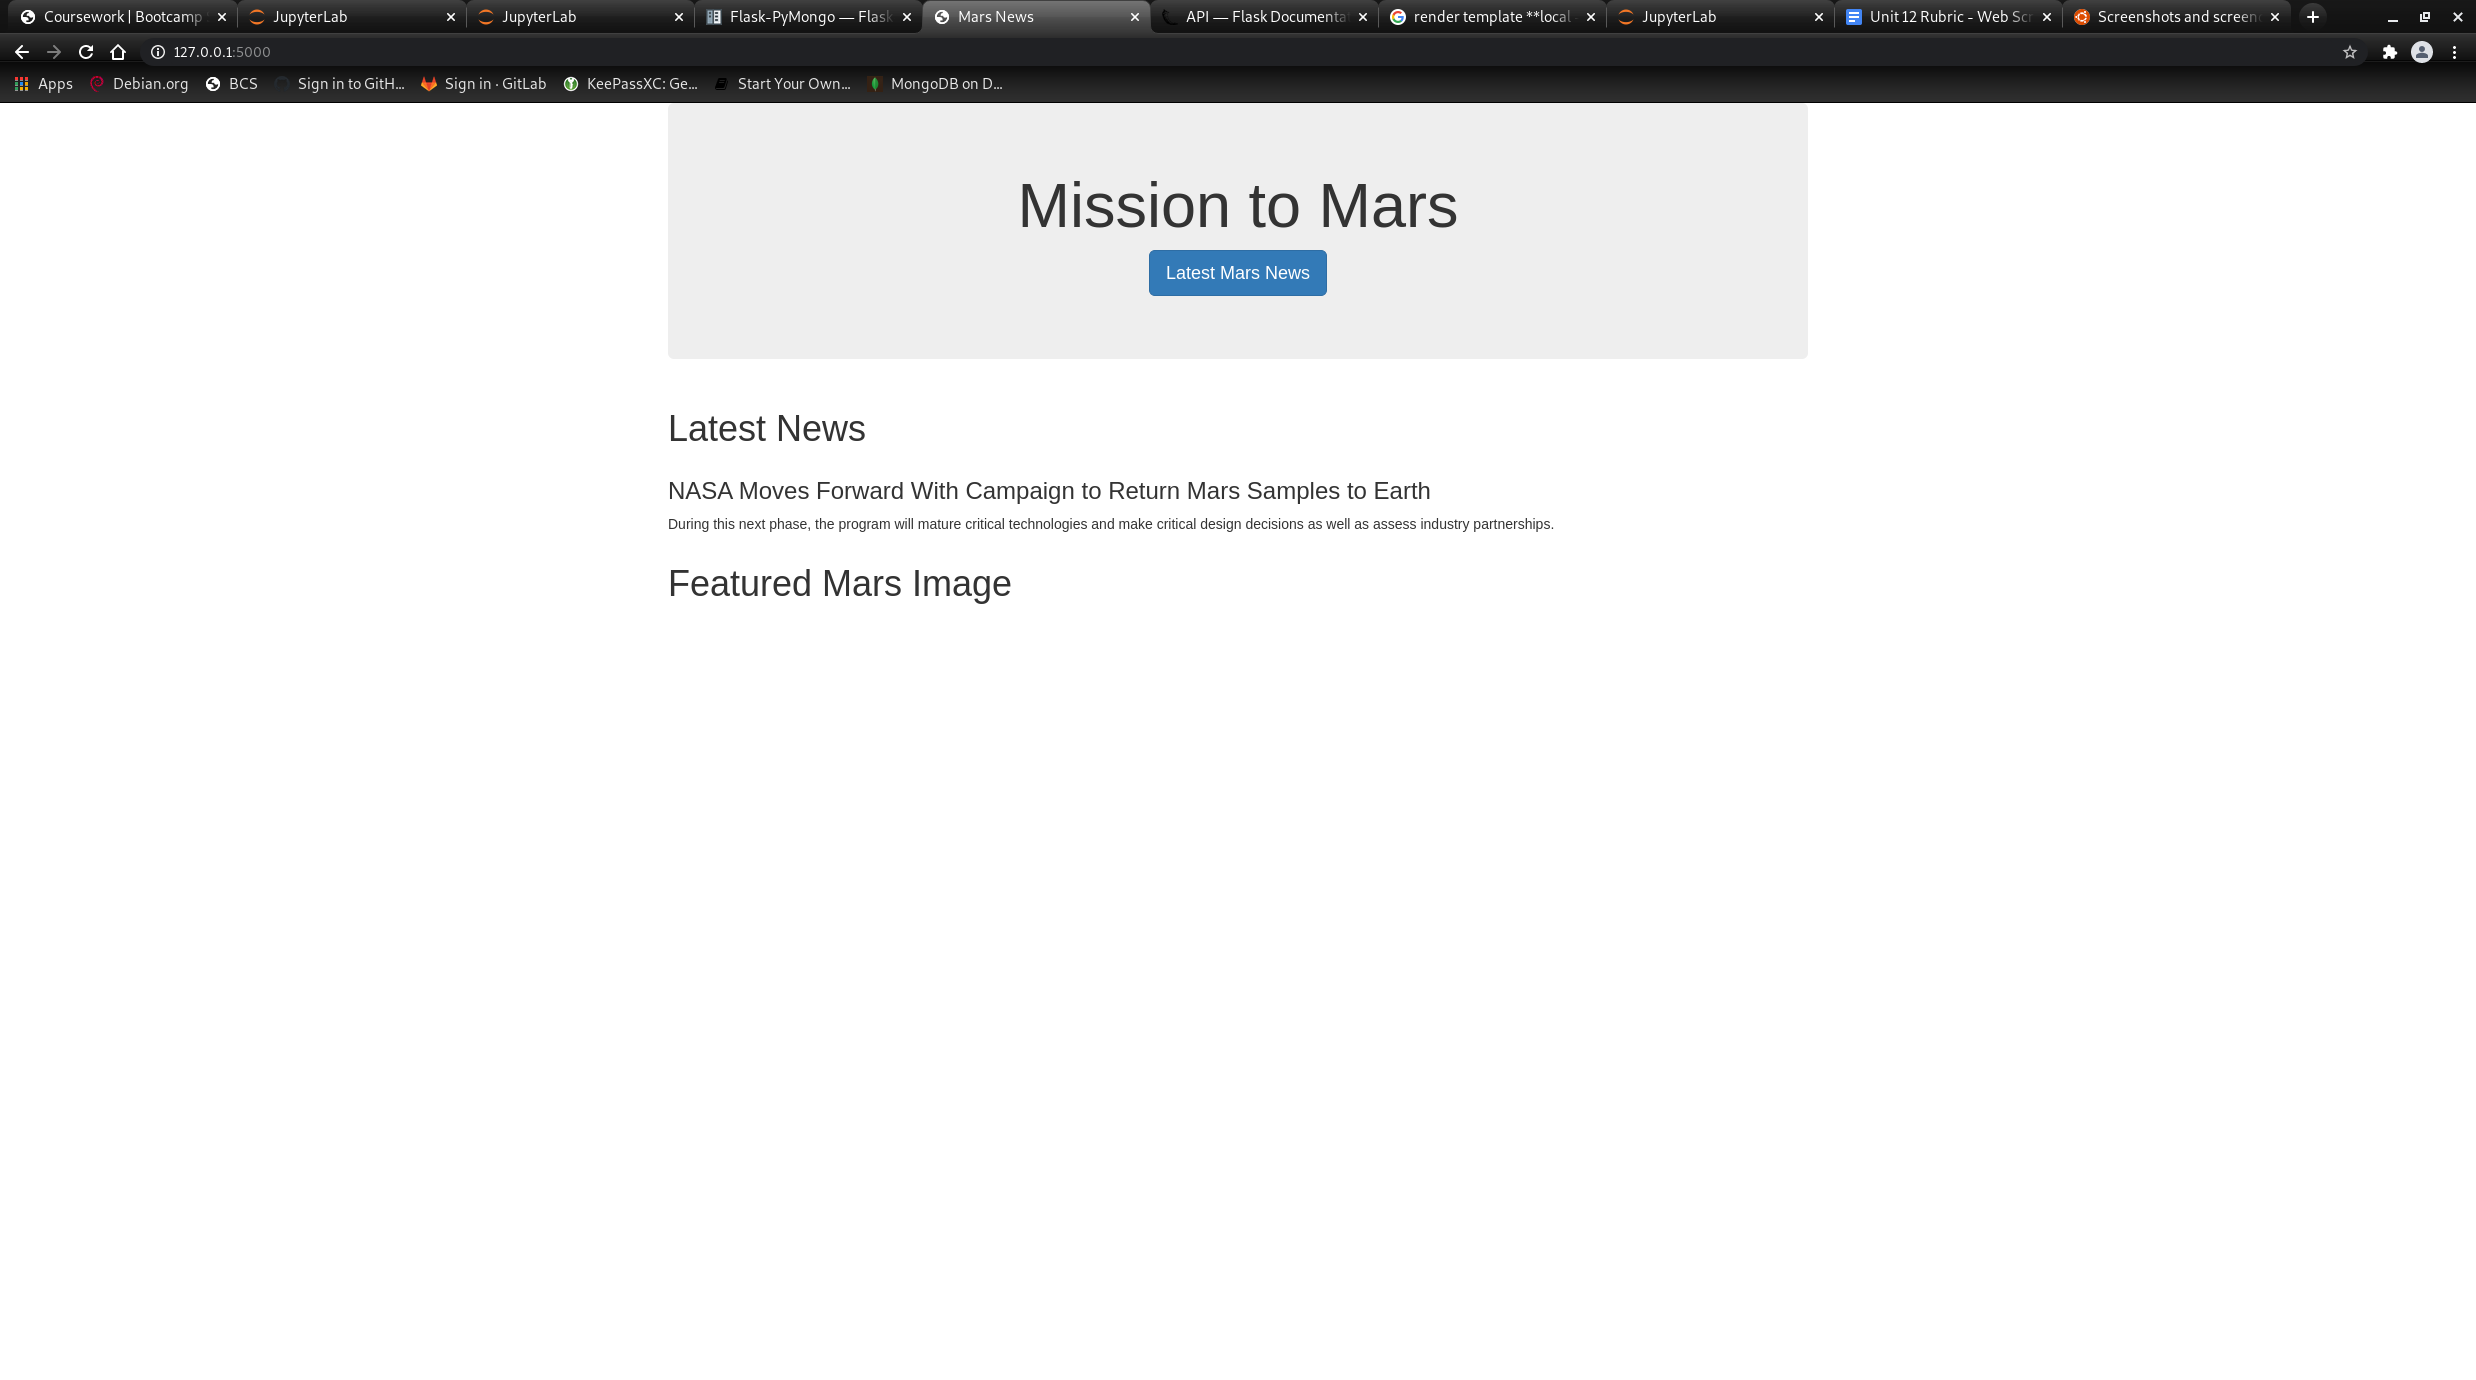
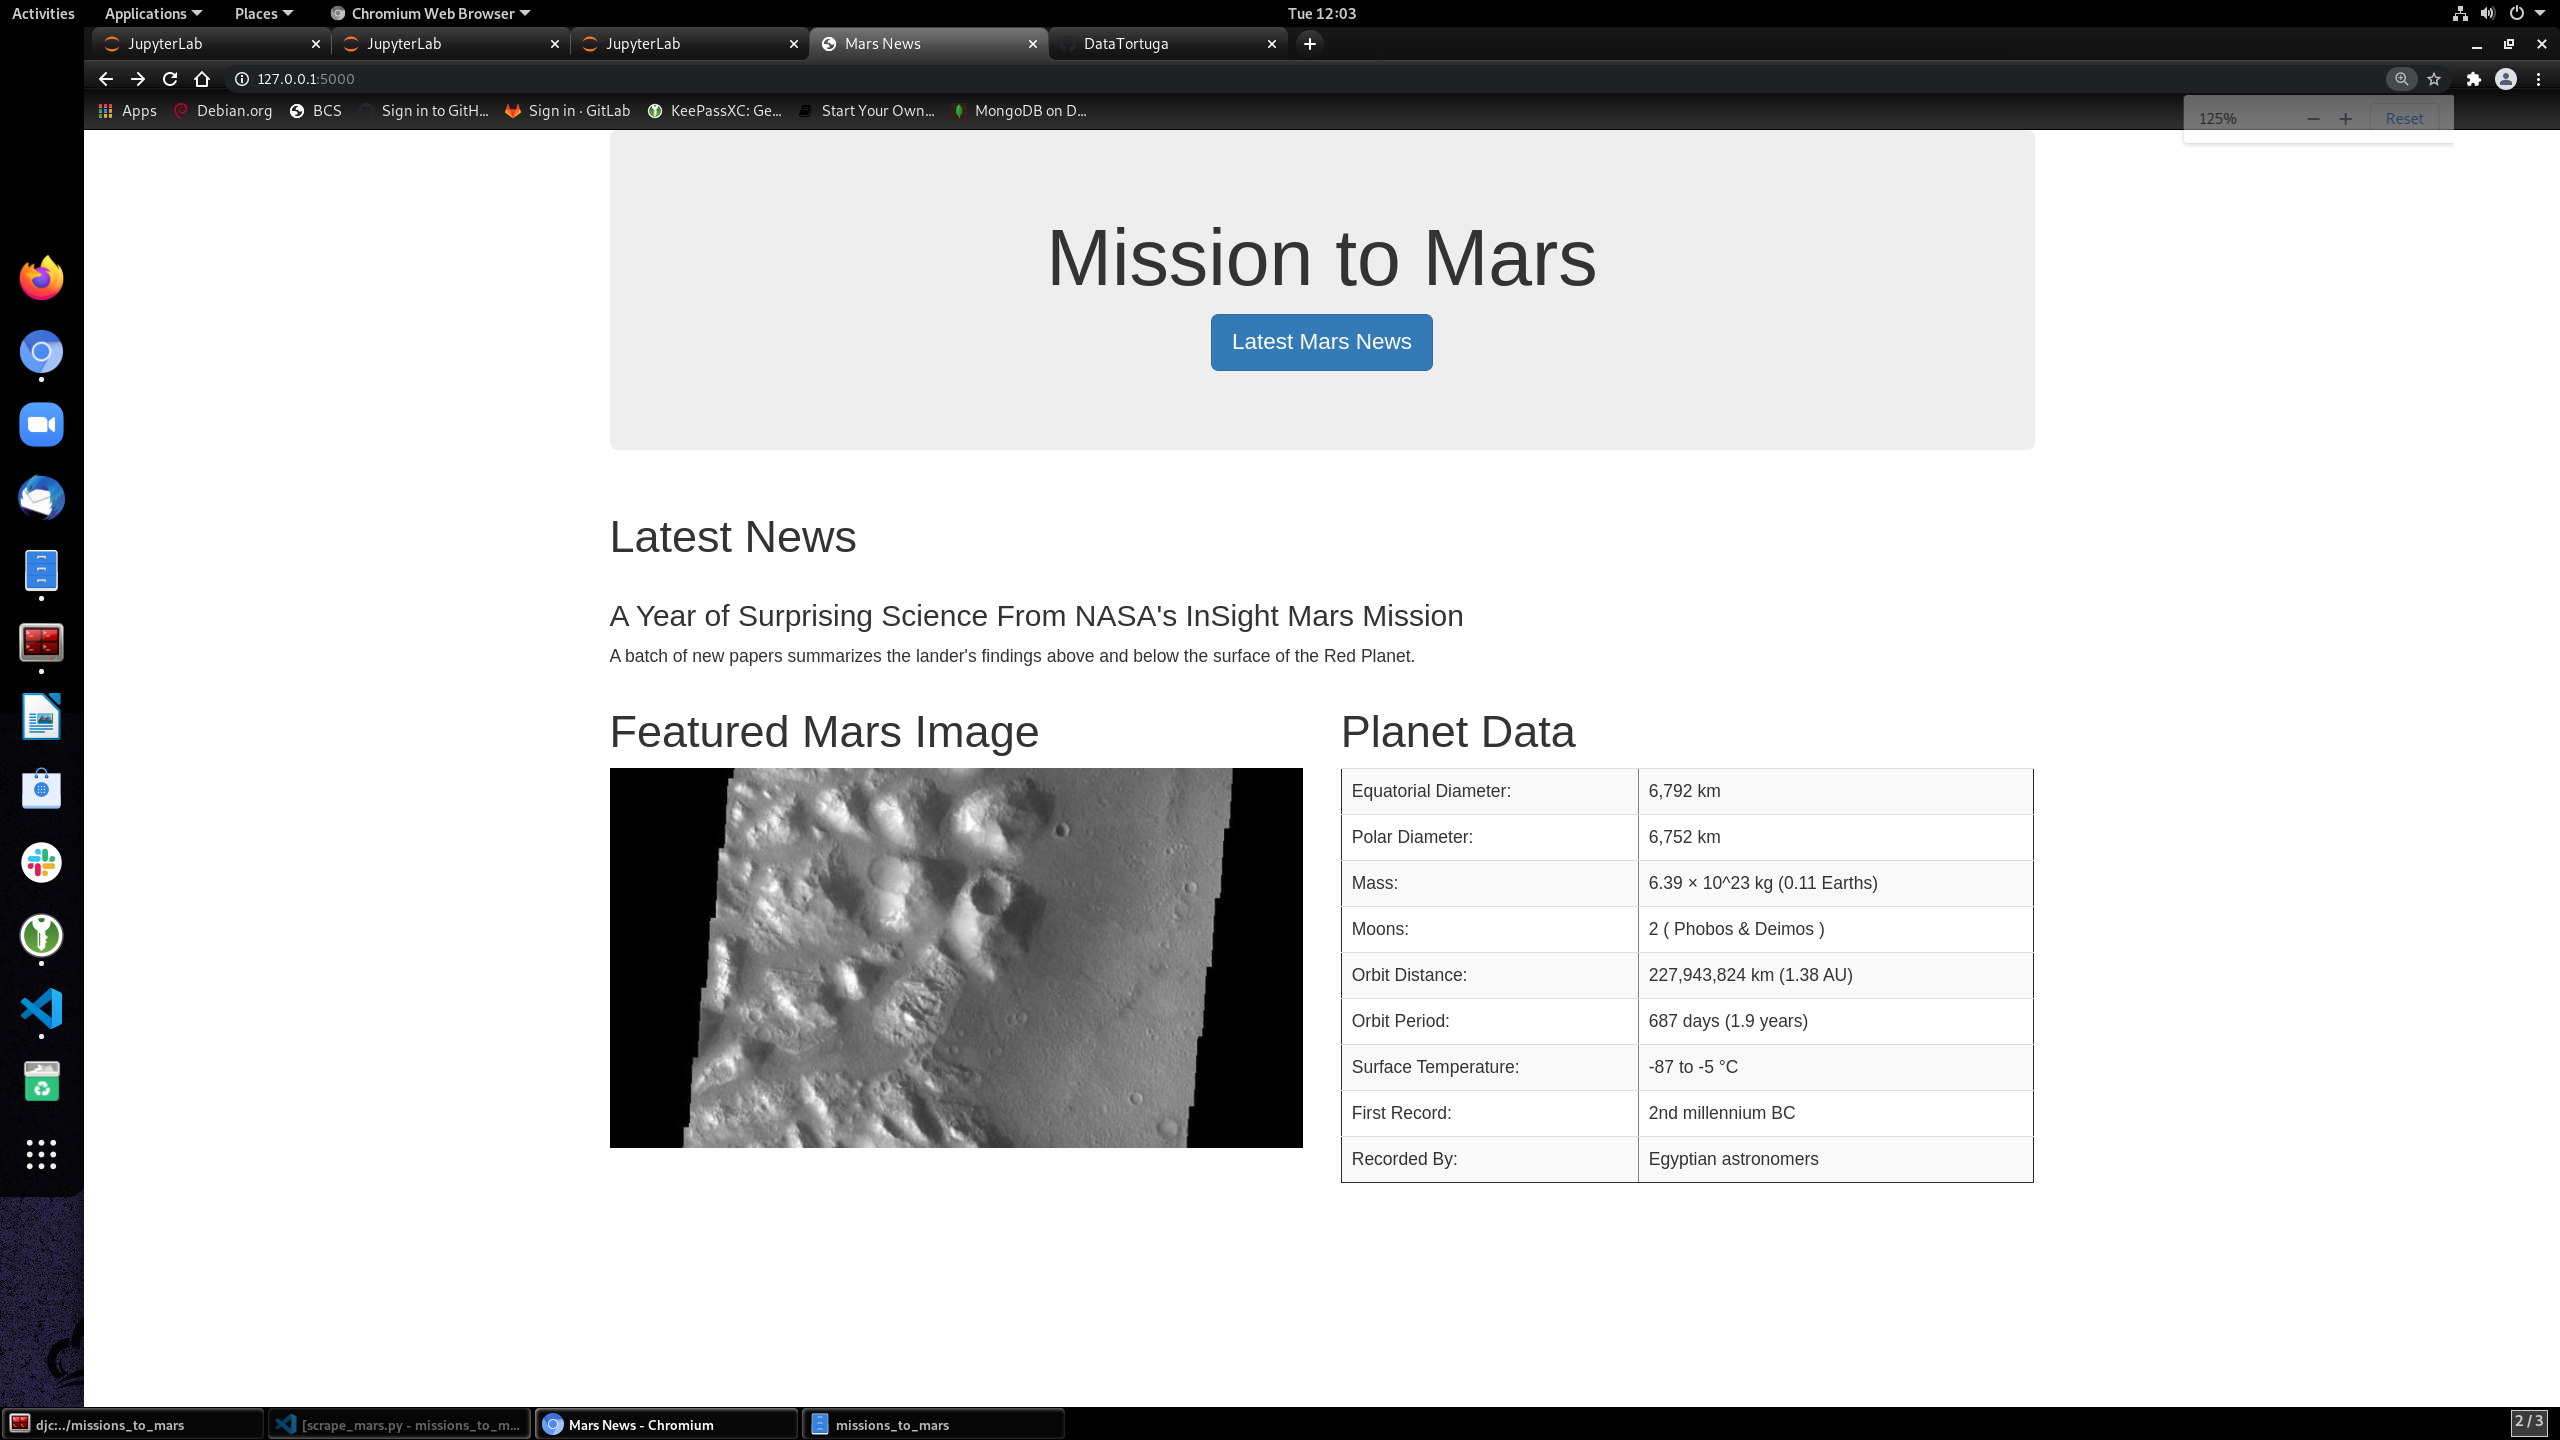
Finishing touches to the homework

diff --git a/missions_to_mars/templates/hemi.html b/missions_to_mars/templates/hemi.html
@@ -1,0 +1,44 @@
+<!DOCTYPE html>
+<html lang="en">
+
+<head>
+  <meta charset="UTF-8">
+  <meta name="viewport" content="width=device-width, initial-scale=1.0">
+  <meta http-equiv="X-UA-Compatible" content="ie=edge">
+  <title>Mars News</title>
+  <link rel="stylesheet" href="https://maxcdn.bootstrapcdn.com/bootstrap/3.3.7/css/bootstrap.min.css">
+</head>
+
+
+<body>
+    <div class="jumbotron text-center">
+        <h1>Marsian Hemispheres</h1>
+    </div>
+
+    <div class="col-md-6">
+      <h1 class="heading">{{mars_nws.hemi_pics[0].title}}</h1>
+      <img class='img-responsive' src={{mars_nws.hemi_pics[0].img_url}}>
+    </div>
+
+    <div class="col-md-6">
+      <h1 class="heading">{{mars_nws.hemi_pics[1].title}}</h1>
+      <img class='img-responsive' src={{mars_nws.hemi_pics[1].img_url}}>
+    </div>
+
+
+    <div class="col-md-6">
+      <h1 class="heading">{{mars_nws.hemi_pics[2].title}}</h1>
+      <img class='img-responsive' src={{mars_nws.hemi_pics[2].img_url}}>
+    </div>
+
+    <div class="col-md-6">
+      <h1 class="heading">{{mars_nws.hemi_pics[3].title}}</h1>
+      <img class='img-responsive' src={{mars_nws.hemi_pics[3].img_url}}>
+    </div>
+
+
+
+
+
+
+</body>

diff --git a/missions_to_mars/templates/index.html b/missions_to_mars/templates/index.html
@@ -30,17 +30,17 @@
 
     <div class="row" id="Mars Data"">
 
-      <div class="col-md-6">
-        <h1 class="heading">Featured Mars Image</h1>
-        <img class='img-responsive' src={{mars_nws.featured_image}}>
-      </div>
+    <div class="col-md-6">
+      <h1 class="heading">Featured Mars Image</h1>
+      <img class='img-responsive' src={{mars_nws.featured_image}}>
+    </div>
 
-      <div class="col-md-6">
-        <h1 class="heading">Planet Data</h1>
+    <div class="col-md-6">
+      <h1 class="heading">Planet Data</h1>
         
-        {{ mars_nws.mars_table|safe }}
+      {{ mars_nws.mars_table|safe }}
         
-      </div>
+    </div>
 
   </div>
 </body>

diff --git a/missions_to_mars/app.py b/missions_to_mars/app.py
@@ -13,21 +13,23 @@ def index():
     mars_nws = mongo.db.mars_nws.find_one()
     return render_template("index.html", mars_nws=mars_nws)
 
+@app.route("/hemi")
+def hemi():
+    mars_nws = mongo.db.mars_nws.find_one()
+    return render_template("hemi.html", mars_nws=mars_nws)
+
 
 @app.route("/scrape")
 def scraper():
+
+
     mongo.db.mars_nws.drop()
     mars_nws = mongo.db.mars_nws
-    # mars_f_img = mongo.db.mars_f_img
-    # mars_tb = mongo.db.mars_tb
-    # mars_hem = mongo.db.mars_hem
+
 
     mars_data = scrape_mars.scrape()
     mars_nws.insert_many(mars_data)
     
-    # mars_f_img.update({}, mars_data[1], upsert=True)
-    # mars_tb.update({}, mars_data[2], upsert=True)
-    # mars_hem.update({}, mars_data[3], upsert=True)
     
     return redirect("/", code=302)
 

diff --git a/missions_to_mars/scrape_mars.py b/missions_to_mars/scrape_mars.py
@@ -30,10 +30,9 @@ def scrape():
     url = 'https://galaxyfacts-mars.com/'
 
     tables = pd.read_html(url)
-    tables
 
     df = tables[1]
-    html_table = df.to_html()
+    html_table = df.to_html(index=False,header=False,classes="table table-striped table-dark")
 
     hem_imgs = [{'title': 'Cerberus Hemisphere', 'img_url': 'https://marshemispheres.com/images/full.jpg'},
                 {'title': 'Schiaparelli Hemisphere', 'img_url': 'https://marshemispheres.com/images/schiaparelli_enhanced-full.jpg'},
